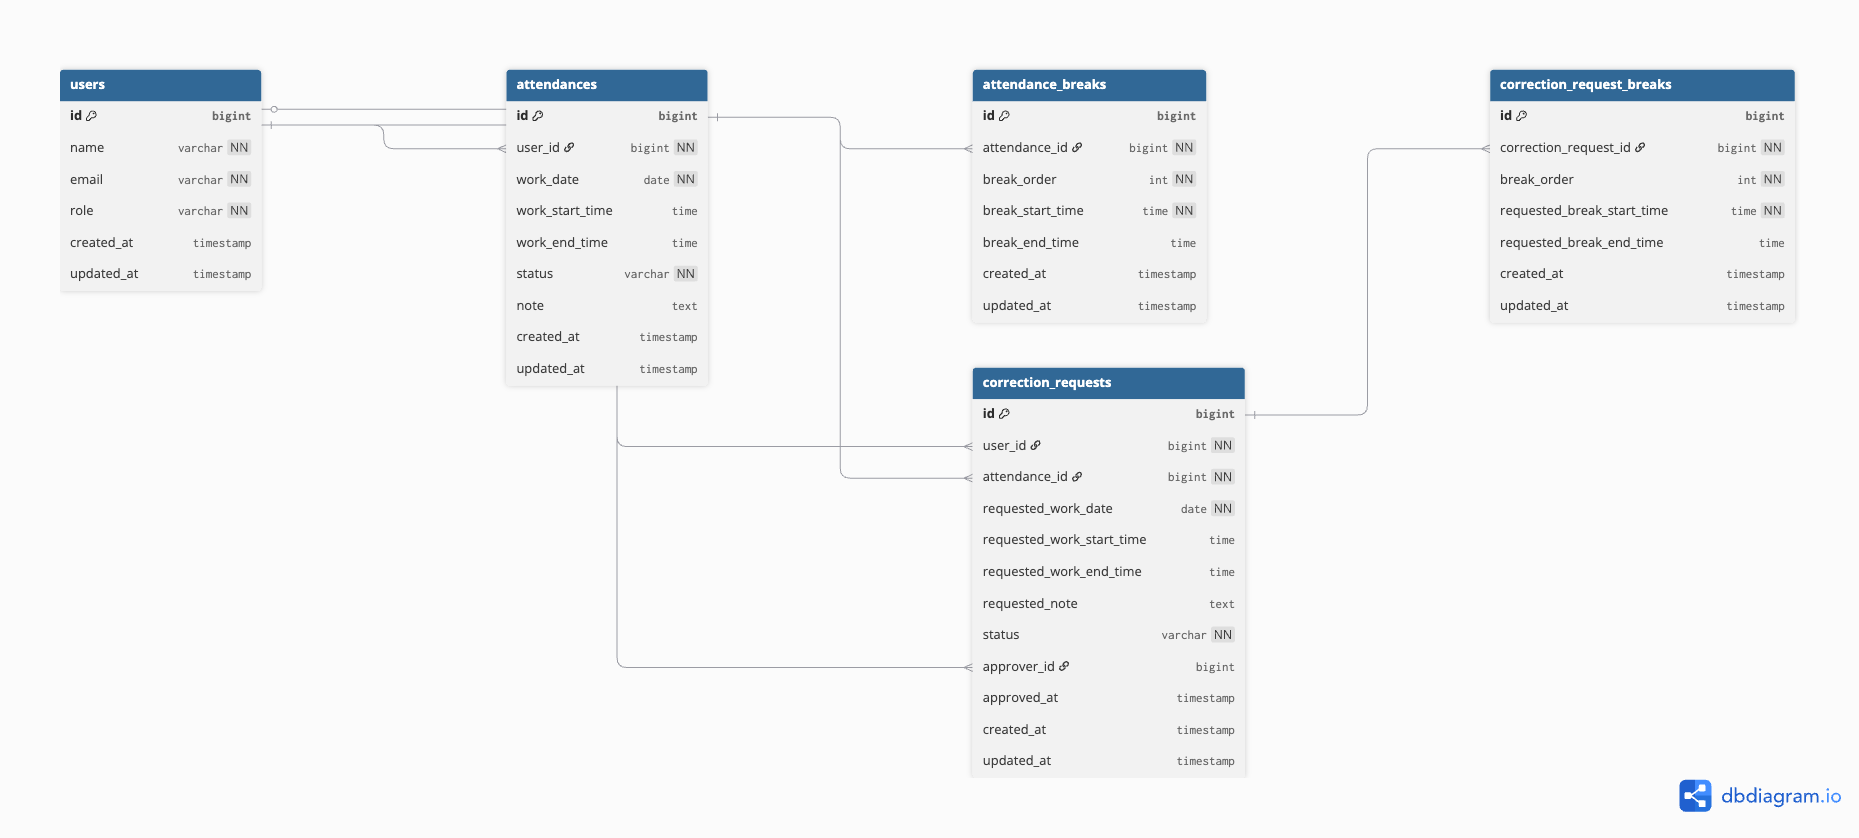
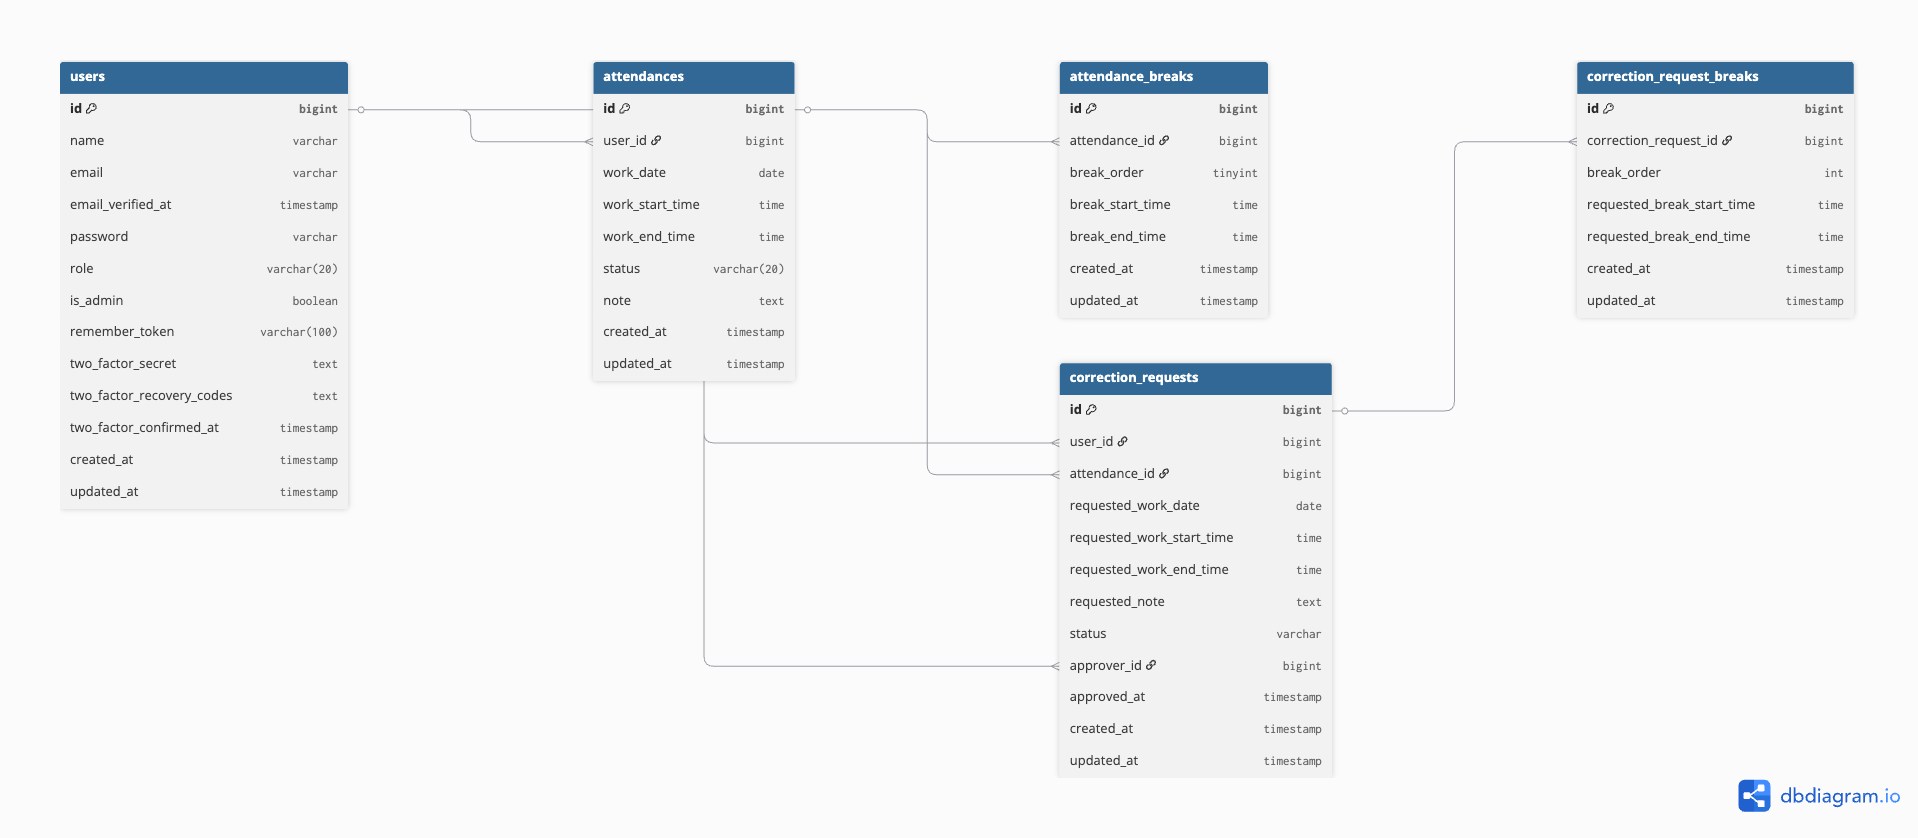
Update README and ER diagram

diff --git a/src/README.md b/src/README.md
@@ -1,6 +1,38 @@
+# アプリケーション名
+- Coachtech-attendanceapp
+
+# 環境構築
+
+### 前提
+- Docker / Docker Compose が利用できること
+
+### 1.リポジトリの取得
+```bash
+git clone <リポジトリURL>
+cd coachtech-attendanceapp
+```
+### 2.コンテナ起動
+```bash
+docker compose up -d --build
+```
+
+### 3.Laravel初期設定(コンテナ内で実行)
+```bash
+docker compose exec php bash
+```
+
+### 4.コンテナ内で以下を実行
+``` bash
+composer install
+cp .env.example .env
+php artisan key:generate
+php artisan migrate --seed
+```
+
 ## ER図
 
-![ER図](./docs/er-diagram.png)
+ ![ER図](./docs/er-diagram.png)
+
 
 ## Tests
 Run tests:
@@ -12,3 +44,31 @@ docker compose exec php bash -lc "php artisan test"
 ## Test evidence
 - Test matrix: ./docs/test-matrix.md
 - Manual test results: ./docs/manual-test-results.md
+
+## ログイン情報
+### 管理者（Seederで作成）
+`php artisan migrate --seed` 実行後、以下でログインできます。
+
+- email: admin@example.com
+- password: password123
+
+### 一般ユーザー
+一般ユーザーは `/register` から任意のメールアドレス・パスワードで新規登録してログインしてください。
+
+
+## URL
+- アプリ: http://localhost:8081/
+- phpMyAdmin: http://localhost:8080/
+
+## 主な画面
+- User: /login , /attendance , /attendance/list　
+- Admin: /admin/login , /admin/attendance , /admin/staff
+
+## 使用技術
+• PHP 8.1.34
+• Laravel 8.83.29
+• MySQL 8.0.45
+
+## 設計資料
+- 基本設計書：別途模擬案件要件シートに貼り付け
+- テーブル設計書：別途模擬案件要件シートに貼り付け
